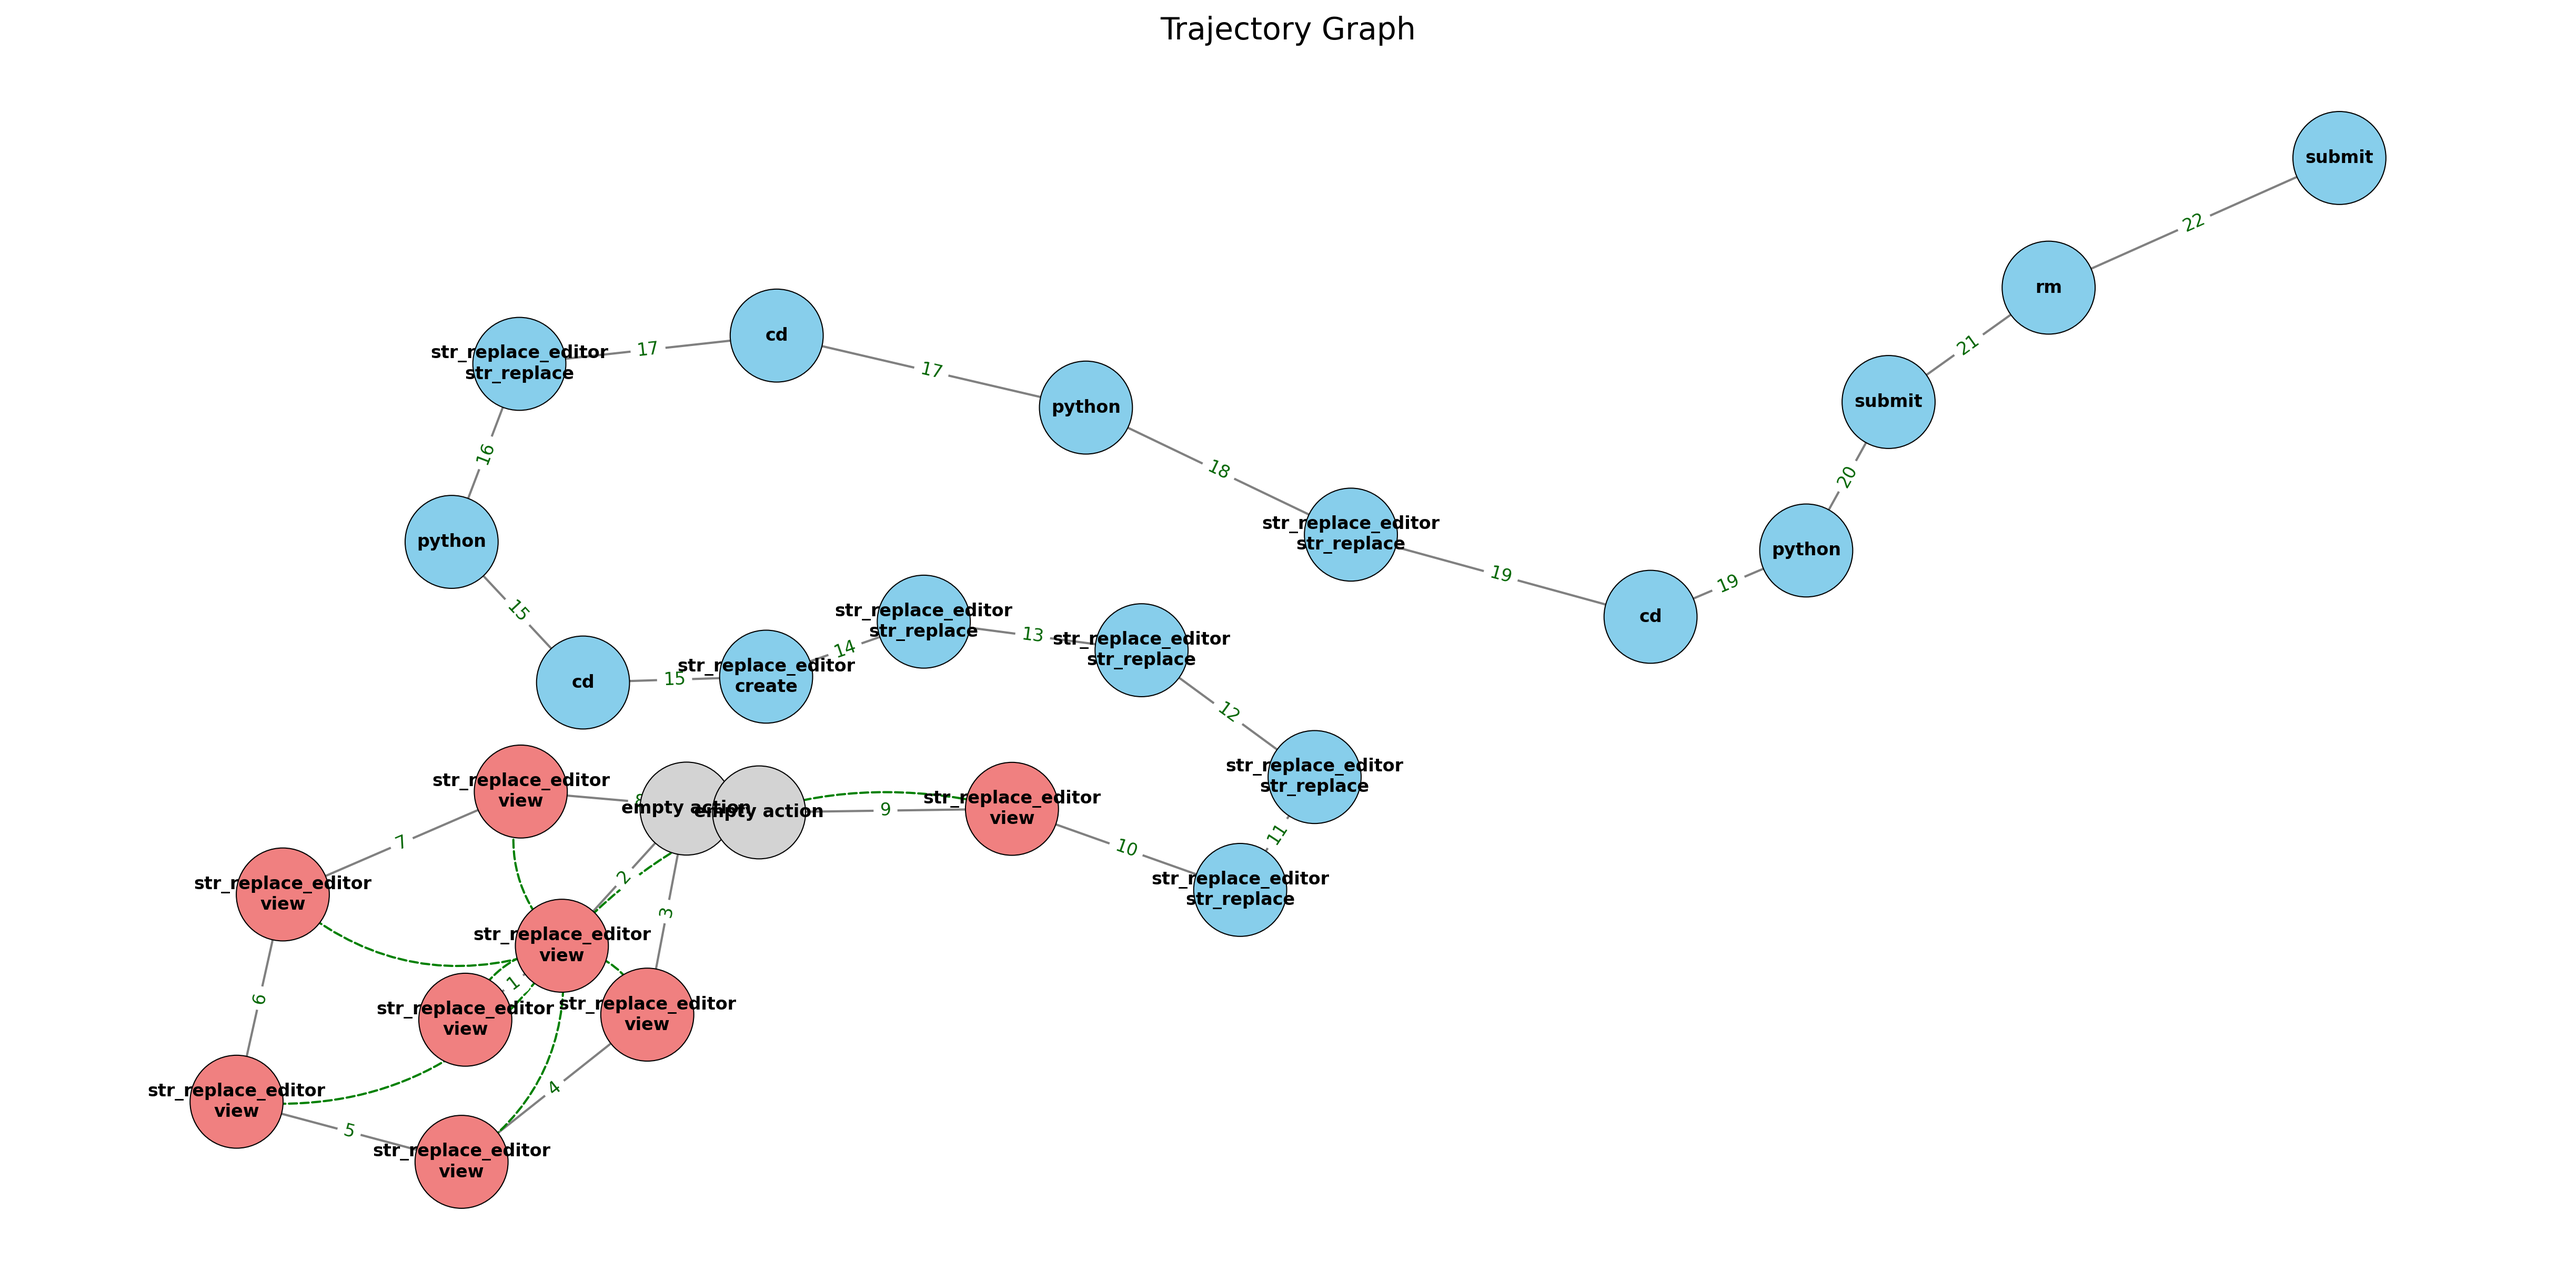
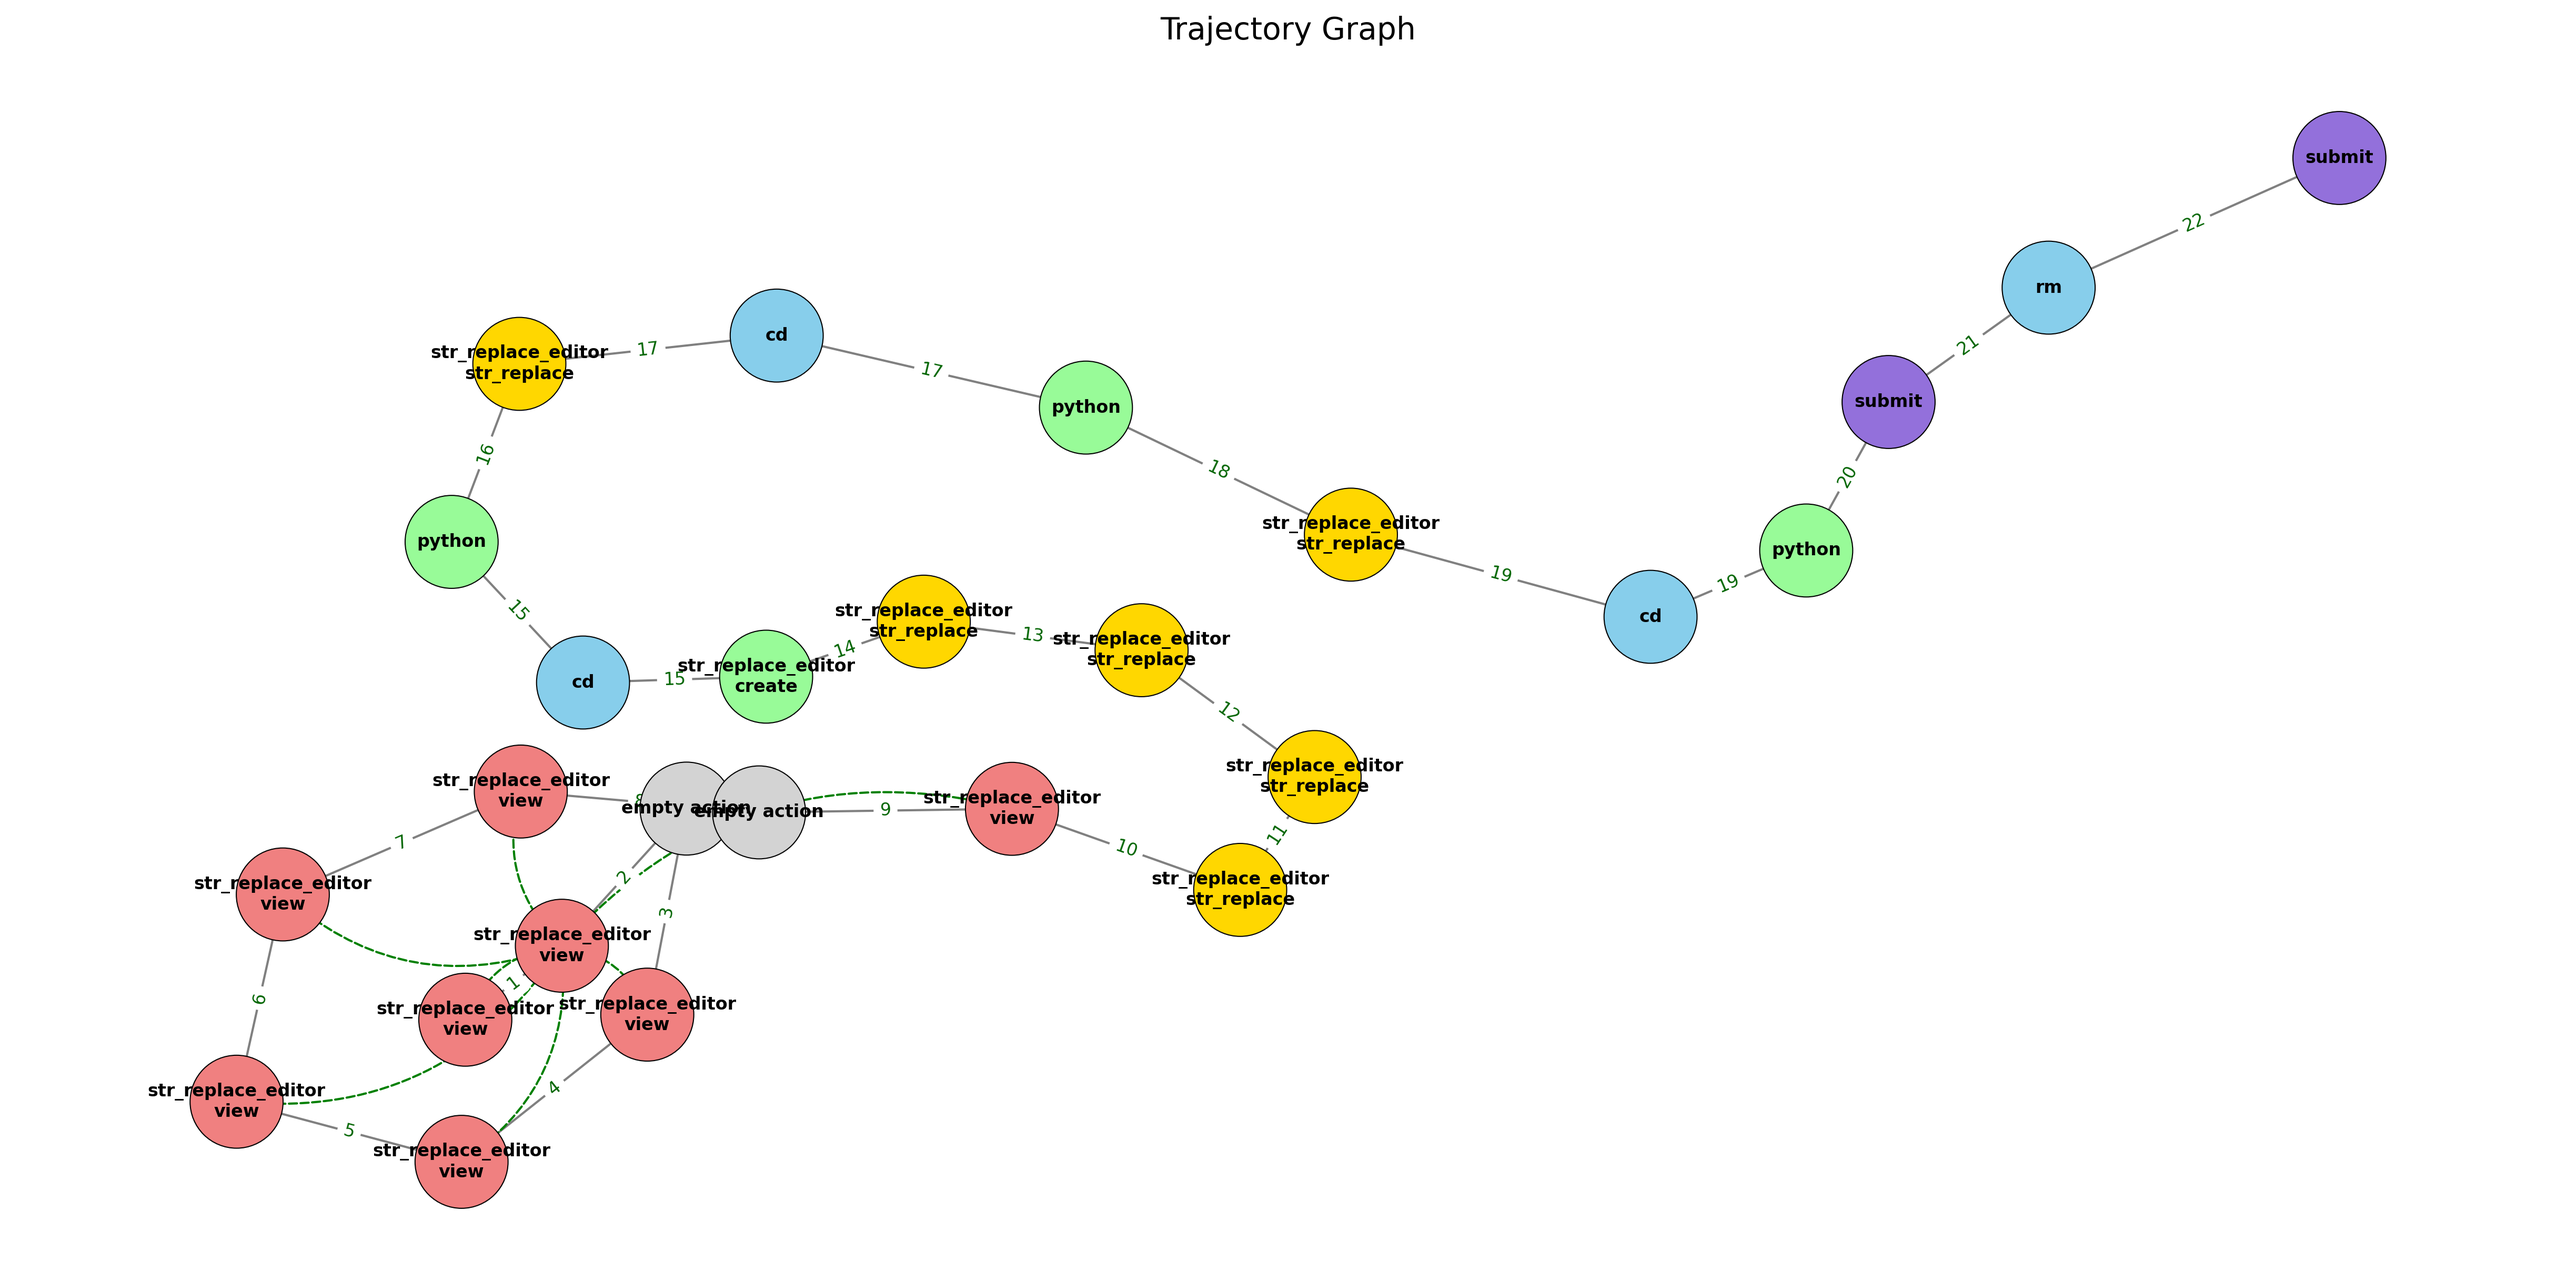
build graph

diff --git a/SWE-agent/buildGraph.py b/SWE-agent/buildGraph.py
@@ -8,6 +8,19 @@ from commandParser import CommandParser
 from pathlib import Path
 
 
+def get_phase_color(tool: str, subcommand: str, command: str, label: str) -> str:
+    """Assign a color based on the logical phase."""
+    if tool == "str_replace_editor" and subcommand == "view":
+        return "lightcoral"  # Localization
+    if tool == "str_replace_editor" and subcommand == "str_replace":
+        return "gold"  # Patch
+    if command == "python" or (tool == "str_replace_editor" and subcommand == "create"):
+        return "palegreen"  # Verification
+    if tool == "submit":
+        return "mediumpurple"  # Submit
+    return "skyblue"  # Default/general
+
+
 def build_graph_from_trajectory(traj_data, parser: CommandParser, output_prefix: str):
     G = nx.MultiDiGraph()
     trajectory = traj_data.get("trajectory", [])
@@ -20,24 +33,12 @@ def build_graph_from_trajectory(traj_data, parser: CommandParser, output_prefix:
         execution_time = step.get("execution_time", 0.0)
         state = step.get("state", {})
 
-        # Handle empty action
         if action_str.strip() == "":
             node_label = "empty action"
             node_key = f"{node_counter}:{node_label}"
-            G.add_node(
-                node_key,
-                label=node_label,
-                execution_time=execution_time,
-                state=state,
-                args={},
-                color="lightgray"
-            )
+            G.add_node(node_key, label=node_label, execution_time=execution_time, state=state, args={}, color="lightgray")
             if previous_node is not None:
-                G.add_edge(
-                    previous_node, node_key,
-                    label=str(step_idx),
-                    type="exec"
-                )
+                G.add_edge(previous_node, node_key, label=str(step_idx), type="exec")
             previous_node = node_key
             node_counter += 1
             continue
@@ -46,74 +47,53 @@ def build_graph_from_trajectory(traj_data, parser: CommandParser, output_prefix:
         if not parsed_commands:
             continue
 
-        num_subcommands = len(parsed_commands)
-        time_per_command = execution_time / num_subcommands if num_subcommands > 0 else 0
+        time_per_command = execution_time / len(parsed_commands)
 
-        for i, parsed in enumerate(parsed_commands):
-            if parsed is None:
-                node_label = action_str.strip()
-                args = {}
+        for parsed in parsed_commands:
+            tool = parsed.get("tool", "")
+            subcommand = parsed.get("subcommand", "")
+            command = parsed.get("command", "")
+            args = parsed.get("args", {})
+
+            if tool:
+                node_label = f"{tool}\n{subcommand}" if subcommand else tool
             else:
-                if "tool" in parsed:
-                    tool = parsed["tool"]
-                    subcommand = parsed.get("subcommand", "")
-                    node_label = f"{tool}\n{subcommand}" if subcommand else tool
-                else:
-                    node_label = parsed["command"]
-                args = parsed.get("args", {})
+                node_label = command or action_str.strip()
 
-            is_localization = node_label.startswith("str_replace_editor\nview")
-            node_color = "lightcoral" if is_localization else "skyblue"
+            color = get_phase_color(tool, subcommand, command, node_label)
 
             node_key = f"{node_counter}:{node_label}"
-            G.add_node(
-                node_key,
-                label=node_label,
-                execution_time=time_per_command,
-                state=state,
-                args=args,
-                color=node_color
-            )
+            G.add_node(node_key, label=node_label, execution_time=time_per_command, state=state, args=args, color=color)
 
-            if is_localization:
+            if node_label.startswith("str_replace_editor\nview"):
                 G.nodes[node_key]["path"] = args.get("path", "")
                 localization_nodes.append(node_key)
 
             if previous_node is not None:
-                G.add_edge(
-                    previous_node, node_key,
-                    label=str(step_idx),
-                    type="exec"
-                )
+                G.add_edge(previous_node, node_key, label=str(step_idx), type="exec")
 
             previous_node = node_key
             node_counter += 1
 
     build_hierarchical_edges(G, localization_nodes)
 
-    json_path = output_prefix + ".json"
-    with open(json_path, "w") as f:
+    os.makedirs(os.path.dirname(output_prefix), exist_ok=True)
+    with open(output_prefix + ".json", "w") as f:
         json.dump(json_graph.node_link_data(G, edges="edges"), f, indent=2)
 
     _draw_graph(G, output_prefix + ".png")
-    print(f"Graph saved to {json_path} and {output_prefix}.png")
+    print(f"Graph saved to {output_prefix}.json and {output_prefix}.png")
 
 
 def build_hierarchical_edges(G: nx.MultiDiGraph, localization_nodes):
     view_nodes = []
-
     for node in localization_nodes:
-        data = G.nodes[node]
-        path = data.get("path")
+        path = G.nodes[node].get("path")
         if path:
-            view_nodes.append((node, Path(path), "view_range" in data.get("args", {})))
+            view_nodes.append((node, Path(path), "view_range" in G.nodes[node].get("args", {})))
 
     view_nodes.sort(key=lambda x: len(x[1].parts))
-
-    path_to_node = {}
-    for node, path, is_range in view_nodes:
-        if not is_range:
-            path_to_node[str(path)] = node
+    path_to_node = {str(path): node for node, path, is_range in view_nodes if not is_range}
 
     for node, path, is_range in view_nodes:
         if is_range:
@@ -133,41 +113,23 @@ def _draw_graph(G: nx.MultiDiGraph, png_path: str):
 
     try:
         from networkx.drawing.nx_agraph import graphviz_layout
-        pos = graphviz_layout(G, prog='dot')
+        pos = graphviz_layout(G, prog="dot")
     except:
         pos = nx.spring_layout(G, seed=42)
 
-    node_colors = [d.get("color", "skyblue") for _, d in G.nodes(data=True)]
-    labels = {n: d["label"] for n, d in G.nodes(data=True)}
+    node_colors = [data.get("color", "skyblue") for _, data in G.nodes(data=True)]
+    labels = {node: data["label"] for node, data in G.nodes(data=True)}
 
     nx.draw_networkx_nodes(G, pos, node_color=node_colors, node_size=1800, edgecolors='black', linewidths=0.5)
     nx.draw_networkx_labels(G, pos, labels, font_size=8, font_weight='bold')
 
-    exec_edges = [(u, v, k) for u, v, k, d in G.edges(keys=True, data=True) if d.get("type") == "exec"]
-    hier_edges = [(u, v, k) for u, v, k, d in G.edges(keys=True, data=True) if d.get("type") == "hier"]
+    exec_edges = [(u, v) for u, v, _, d in G.edges(keys=True, data=True) if d.get("type") == "exec"]
+    hier_edges = [(u, v) for u, v, _, d in G.edges(keys=True, data=True) if d.get("type") == "hier"]
 
-    nx.draw_networkx_edges(
-        G, pos,
-        edgelist=[(u, v) for u, v, _ in exec_edges],
-        edge_color="gray",
-        arrows=True,
-        connectionstyle="arc3,rad=0.0"
-    )
+    nx.draw_networkx_edges(G, pos, edgelist=exec_edges, edge_color="gray", arrows=True, connectionstyle="arc3,rad=0.0")
+    nx.draw_networkx_edges(G, pos, edgelist=hier_edges, edge_color="green", style="dashed", arrows=True, connectionstyle="arc3,rad=-0.3")
 
-    nx.draw_networkx_edges(
-        G, pos,
-        edgelist=[(u, v) for u, v, _ in hier_edges],
-        edge_color="green",
-        style="dashed",
-        arrows=True,
-        connectionstyle="arc3,rad=-0.3"
-    )
-
-    edge_labels = {
-        (u, v): d["label"]
-        for u, v, k, d in G.edges(keys=True, data=True)
-        if d.get("type") == "exec" and "label" in d
-    }
+    edge_labels = {(u, v): d["label"] for u, v, _, d in G.edges(keys=True, data=True) if d.get("type") == "exec"}
     nx.draw_networkx_edge_labels(G, pos, edge_labels=edge_labels, font_size=8, font_color="darkgreen")
 
     plt.title("Trajectory Graph", fontsize=14)
